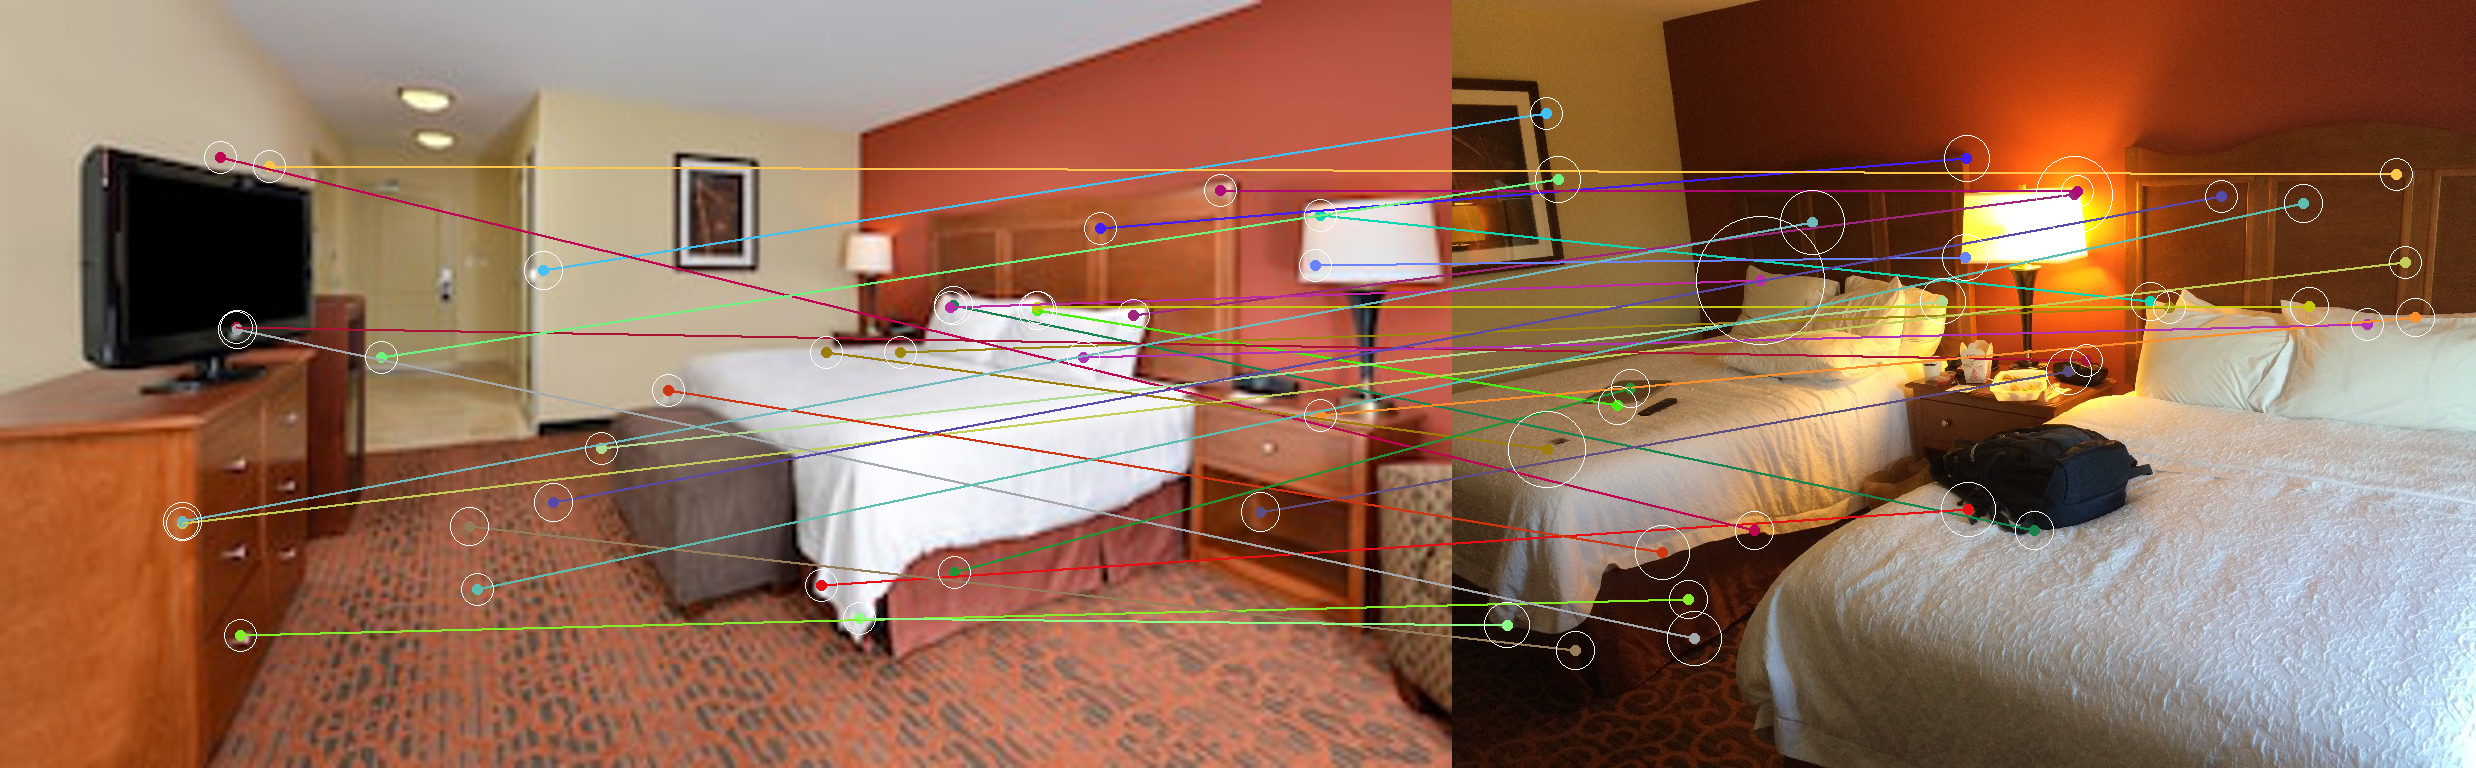
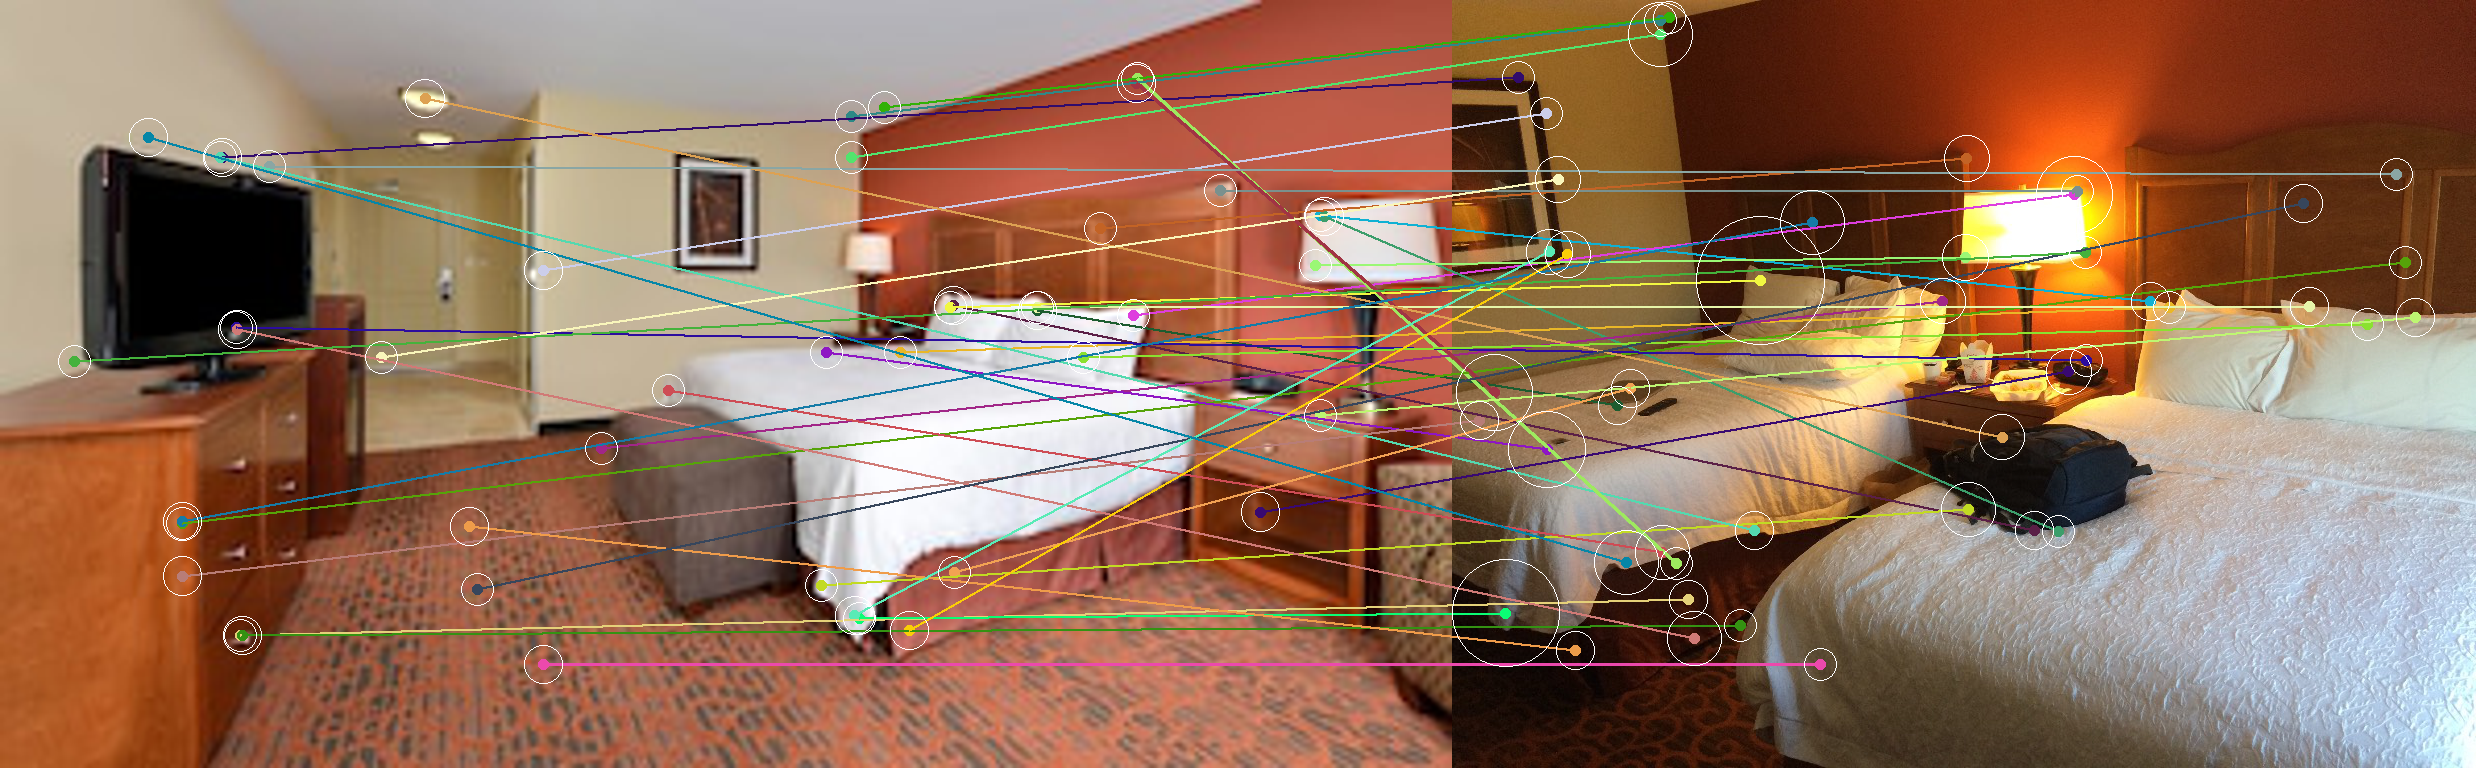
fix issues with radius/diameter in overflow point removal

diff --git a/visualization.py b/visualization.py
@@ -151,11 +151,13 @@ def remove_overflow_points(xys1, xys2, desc1, desc2, size1, size2):
     indices_to_be_del_1 = []
     indices_to_be_del_2 = []
     for idx1, point1 in enumerate(xys1):
-        if point1[0]+point1[2] > size1[0] or point1[1]+point1[2] > size1[1] or point1[0]-point1[2] < 0 or point1[1]-point1[2] < 0:
+        radius = point1[2] / 2
+        if point1[0]+radius > size1[0] or point1[1]+radius > size1[1] or point1[0]-radius < 0 or point1[1]-radius < 0:
             if idx1 >= len(xys1): continue
             indices_to_be_del_1.append(idx1)
     for idx2, point2 in enumerate(xys2):
-        if point2[0]+point2[2] > size2[0] or point2[1]+point2[2] > size2[1] or point2[0]-point2[2] < 0 or point2[1]-point2[2] < 0:
+        radius = point2[2] / 2
+        if point2[0]+radius > size2[0] or point2[1]+radius > size2[1] or point2[0]-radius < 0 or point2[1]-radius < 0:
             if idx2 >= len(xys2): continue
             indices_to_be_del_2.append(idx2)
 
